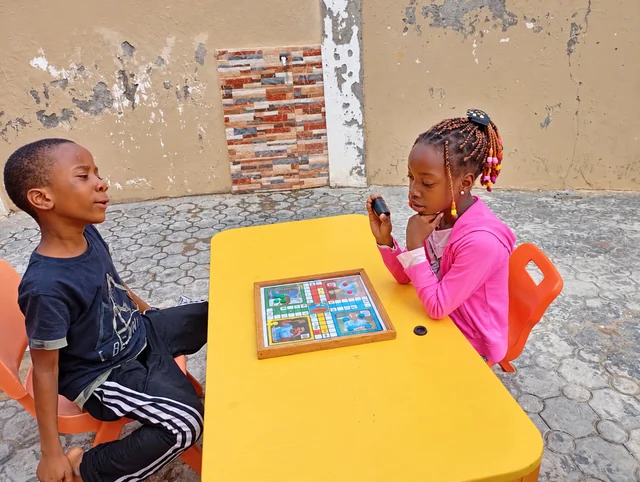
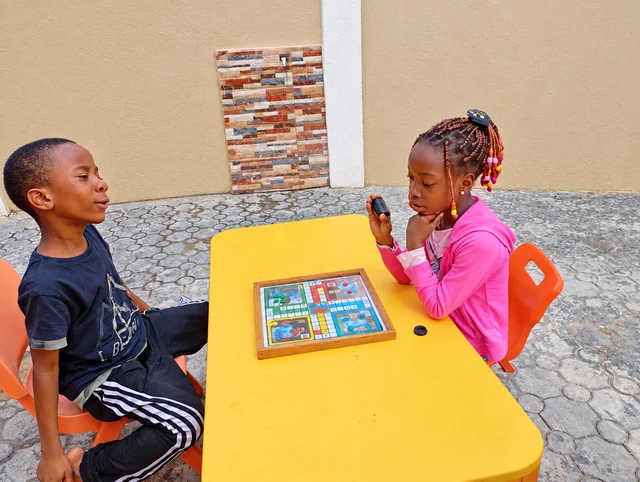
2.2

diff --git a/publish_wall_retouches.py b/publish_wall_retouches.py
@@ -1,0 +1,28 @@
+"""Publish reviewed wall-only edits while retaining previous photos and originals."""
+from pathlib import Path
+from shutil import copy2
+from PIL import Image
+
+ROOT = Path(__file__).parent
+GENERATED = Path(r'C:\Users\PC\.codex\generated_images\01a0f31f-b7d6-7411-95d1-68d891d81bb7')
+MASTERS = ROOT / 'media-originals/retouched-masters'
+BEFORE = ROOT / 'media-originals/before-wall-retouch'
+MASTERS.mkdir(parents=True, exist_ok=True)
+BEFORE.mkdir(parents=True, exist_ok=True)
+for name, output_id, size in [
+    ('pupils-playing-board-game', '6ea690bb-374a-495f-bcd3-07f659afbd80', (1020, 768)),
+    ('children-in-school-uniform', '660b1d4d-23ef-4b69-813b-86715d7c5743', (960, 1280)),
+]:
+    target = ROOT / 'public/media/images/students' / f'{name}.webp'
+    if not (BEFORE / target.name).exists():
+        copy2(target, BEFORE / target.name)
+    master = MASTERS / f'{name}.png'
+    copy2(GENERATED / f'exec-{output_id}.png', master)
+    with Image.open(master) as source:
+        image = source.convert('RGB').resize(size, Image.Resampling.LANCZOS)
+        image.save(target, 'WEBP', quality=88, method=6)
+        for width in (640, 960):
+            if width < image.width:
+                small = image.resize((width, round(image.height * width / image.width)), Image.Resampling.LANCZOS)
+                small.save(target.with_name(f'{name}-{width}.webp'), 'WEBP', quality=85, method=6)
+    print(name, size, target.stat().st_size)

diff --git a/prepare_school_photos.py b/prepare_school_photos.py
@@ -36,7 +36,8 @@ for name, original_name, generated_id, category in PHOTOS:
         copy2(generated, master)
     with Image.open(BACKUP / original_name) as original:
         original_long_edge = max(original.size)
-    with Image.open(master) as enhanced:
+    retouched = BACKUP / 'retouched-masters' / f'{name}.png'
+    with Image.open(retouched if retouched.exists() else master) as enhanced:
         image = ImageOps.exif_transpose(enhanced).convert('RGB')
         if max(image.size) > original_long_edge:
             image.thumbnail((original_long_edge, original_long_edge), Image.Resampling.LANCZOS)
